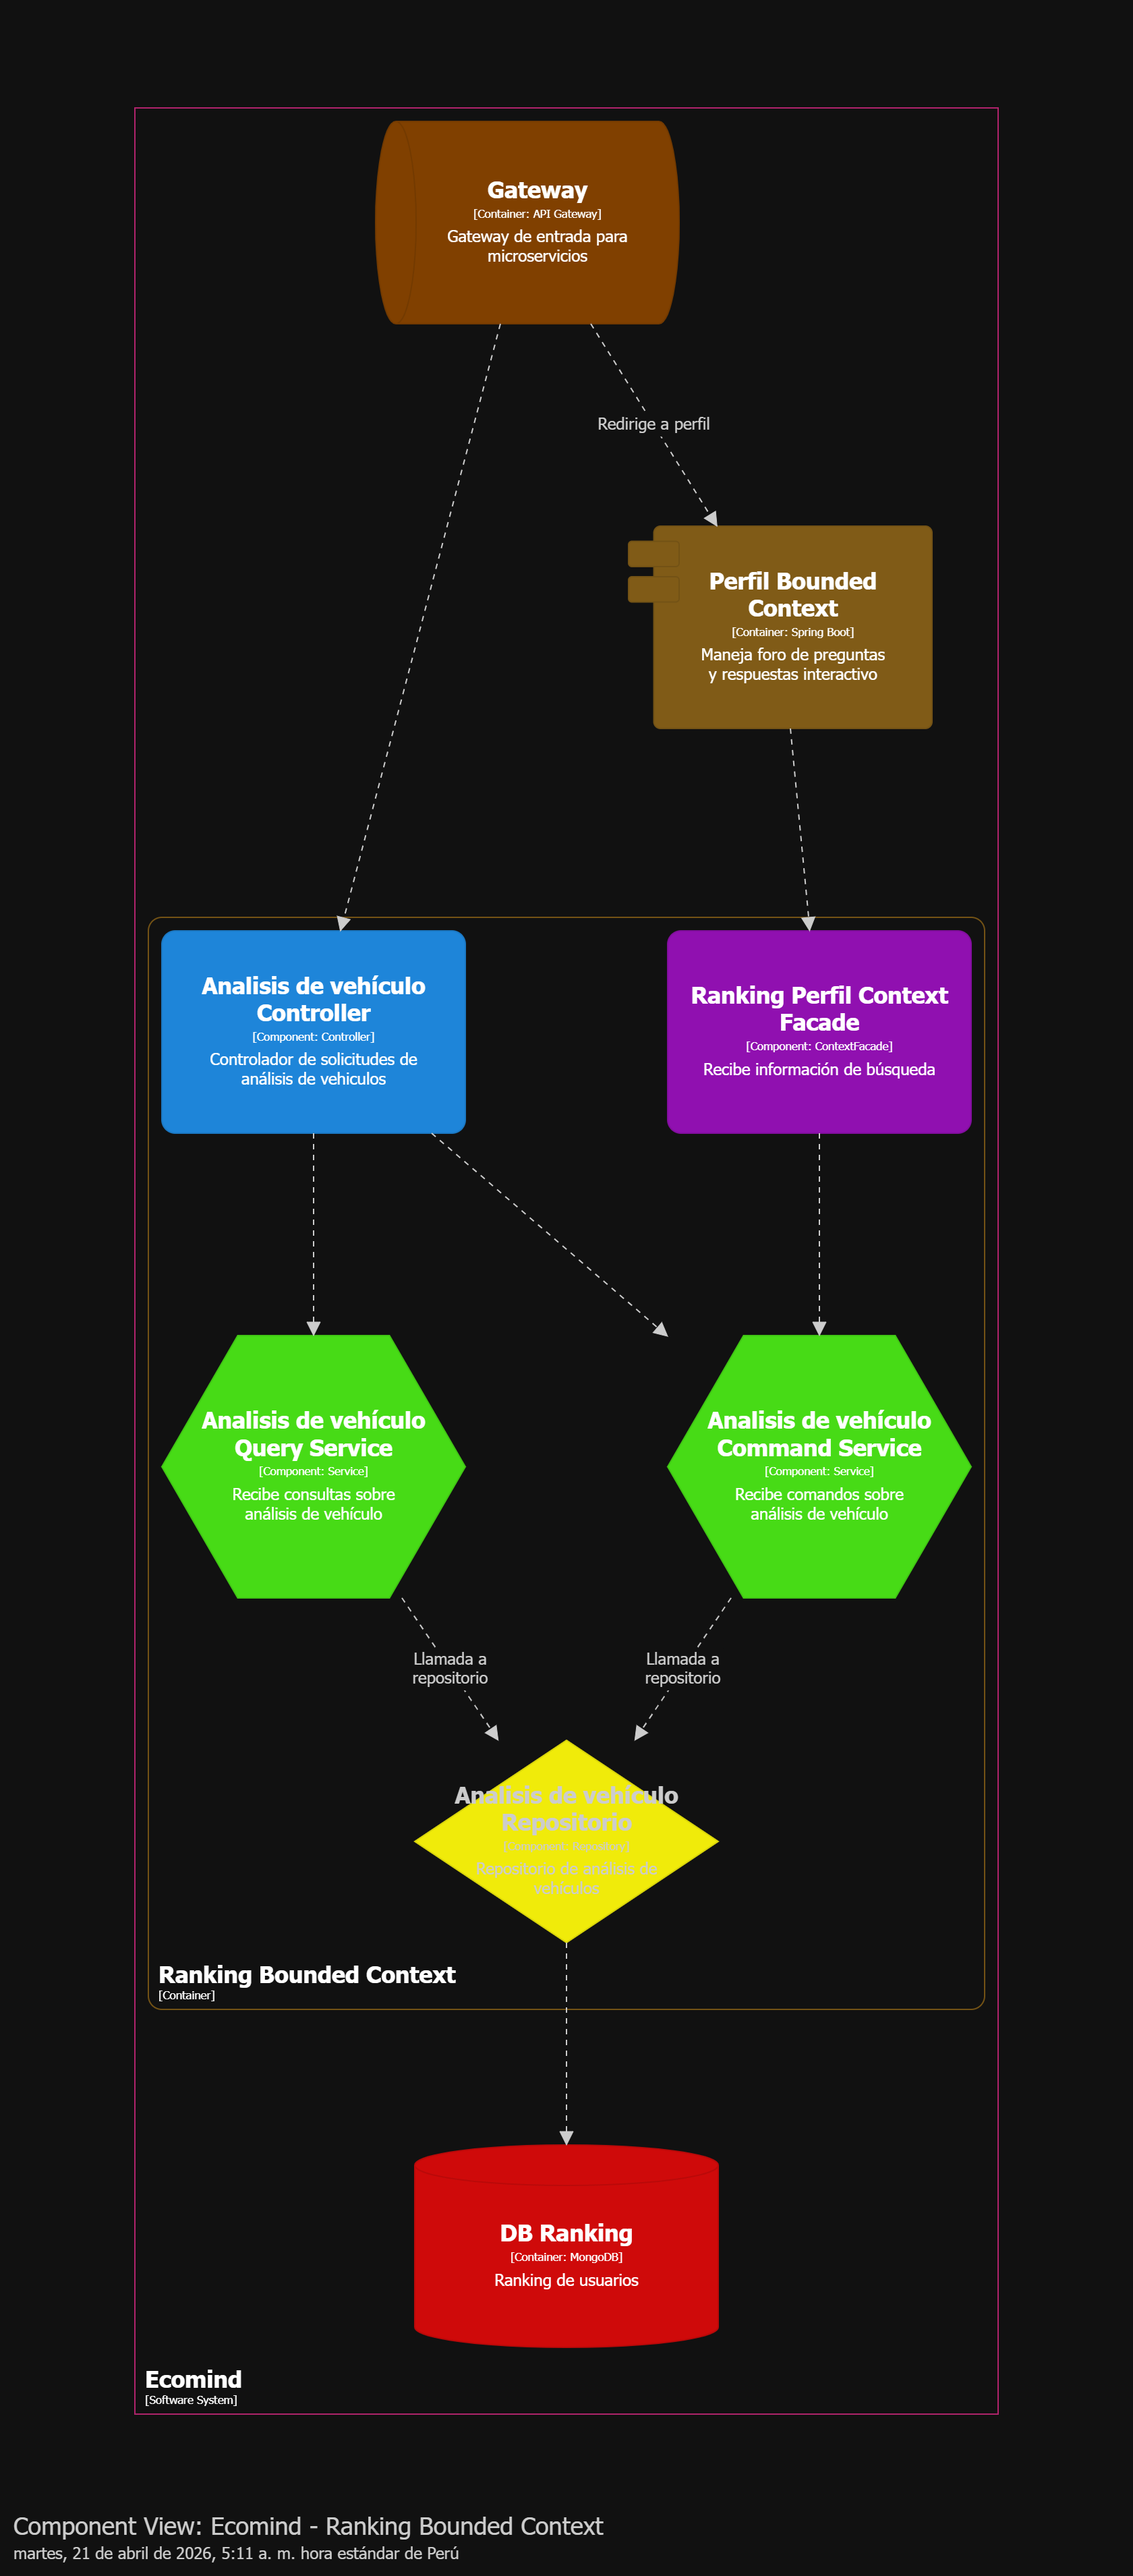
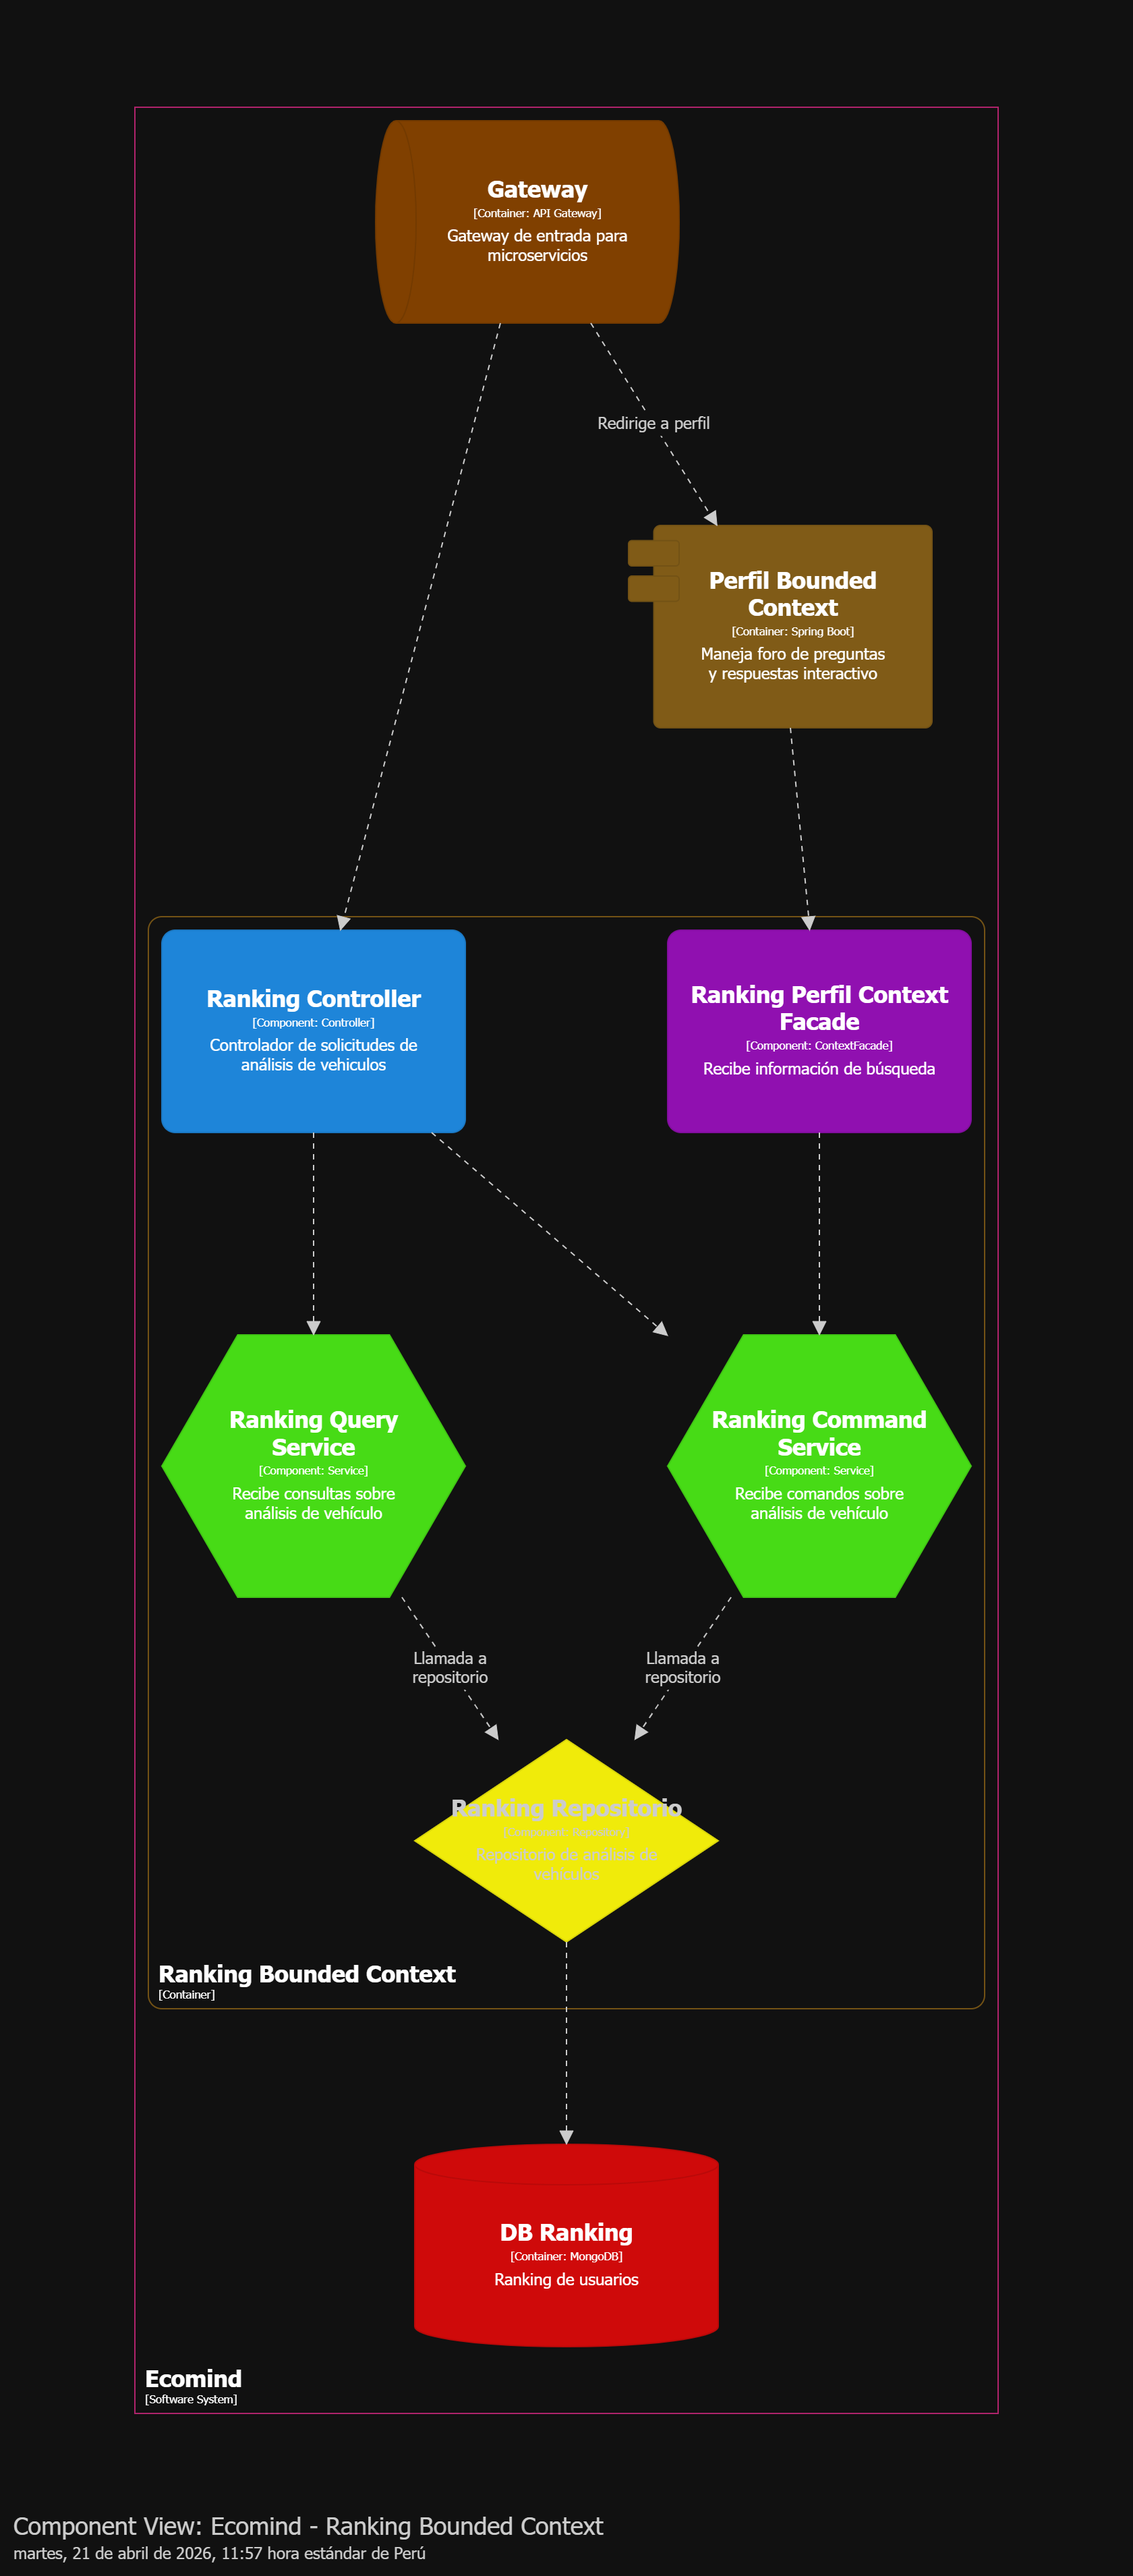
fix: Arreglar errores en diagramas de componentes ranking y retos

diff --git a/README.md b/README.md
@@ -3609,7 +3609,7 @@ Link Miro: https://miro.com/app/board/uXjVGg3HbPQ=/?share_link_id=238747434436
 
 - Diagrama de componentes - Gestion de retos
 
-![Component_Diagram_retos](assets/img/figures/Diagrama_componentes_retos.png)
+![Component_Diagram_retos](assets/img/figures/Diagrama_componente_retos.png)
 
 - Diagrama de componentes - Gestion de ranking
 
